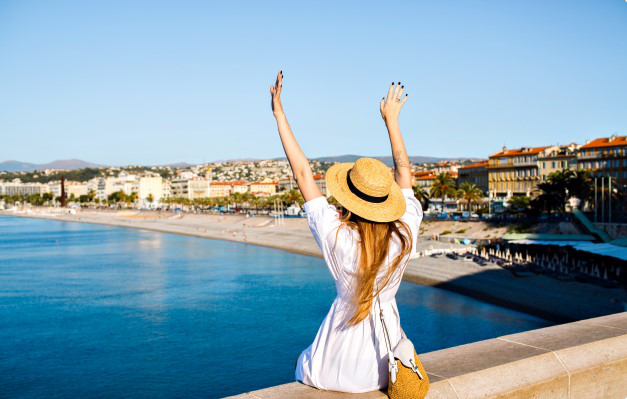
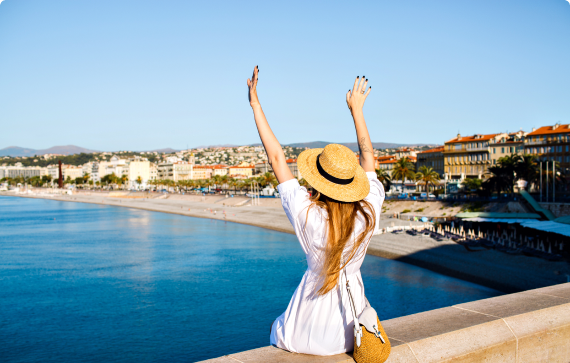
touren fixed

diff --git a/r_f_invest_in_bulgarien/src/components/Touren/index.module.css b/r_f_invest_in_bulgarien/src/components/Touren/index.module.css
@@ -1,14 +1,14 @@
 .touren_container {
-	background-color: #ebebeb;
+	background-color: #f3f6fb;
 	padding: 100px;
-	margin: 100px 0;
+	margin: 100px auto;
 }
 
 .touren_h h2 {
 	text-align: center;
-	margin-bottom: 100px;
+	margin-bottom: 80px;
 	font-weight: 700;
-	font-size: 55px;
+	font-size: 48px;
 }
 
 .touren_block {
@@ -19,29 +19,31 @@
 
 .touren_block img {
 	object-fit: cover;
-	width: 750px;
-	height: 500px;
+	width: 570px;
+	height: 380px;
 	border-radius: 10px;
 }
 
 .touren_block h3 {
-	font-weight: 600;
-	font-size: 48px;
-	margin: 70px 0;
+	font-weight: 700;
+	font-size: 36px;
+	max-width: 430px;
+	margin: 36px 0 32px 0;
 }
 
 .accent {
-	color: rgb(8, 8, 207);
+	color: #0957cb;
 }
 
 .touren_block p {
-	font-weight: 300;
-	font-size: 20.9px;
+	max-width: 430px;
+	font-weight: 400;
+	font-size: 16px;
 	text-align: justify;
-	color: #747d8c;
+	color: #131a32;
 }
 
 .touren_block button {
-	padding: 20px 50px;
-	margin: 50px 0;
+	padding: 12px 46px;
+	margin: 32px 0;
 }
